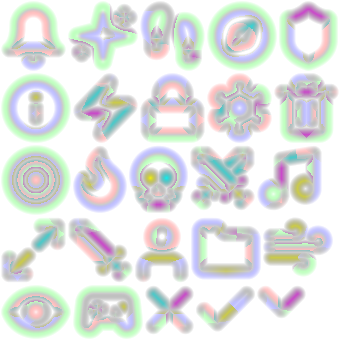
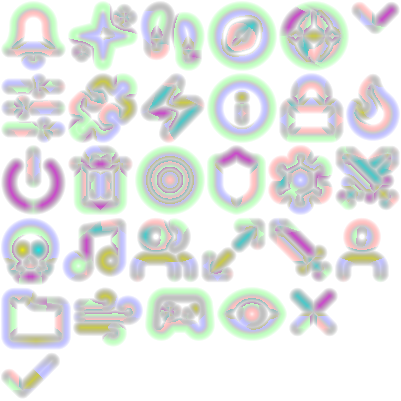
Выровнял иконки по высоте относительно текста и обновил иконки в Главном Меню

diff --git a/src/client/java/fun/newrar/screen/MainMenuScreen.java b/src/client/java/fun/newrar/screen/MainMenuScreen.java
@@ -360,10 +360,10 @@ public class MainMenuScreen extends Screen implements IMinecraft {
 
             if (danger) {
                 Fonts.sf_regular.drawCentered(text(), x + width / 2F + 5F, y + height / 2F - 3.5F, 6.5F, textColor);
-                Fonts.icon.drawCentered(icon, x + width / 2F - Fonts.sf_regular.getWidth(text(), 6.5F) / 2F - 6F, y + height / 2F - 0.5F, 6F, iconColor);
+                Fonts.rainydlc_2.drawCentered(icon, x + width / 2F - Fonts.sf_regular.getWidth(text(), 6.5F) / 2F - 6F, y + height / 2F - 3.2F, 6.5F, iconColor);
             } else {
                 Fonts.sf_regular.draw(text(), x + 11F, y + height / 2F - 3.5F, 6.5F, textColor);
-                Fonts.icon.drawCentered(icon, x + width - 13F, y + height / 2F - 0.5F, 6F, iconColor);
+                Fonts.rainydlc_2.drawCentered(icon, x + width - 13F, y + height / 2F - 3.2F, 6.5F, iconColor);
             }
         }
 

diff --git a/src/client/java/fun/newrar/screen/Menu.java b/src/client/java/fun/newrar/screen/Menu.java
@@ -690,7 +690,7 @@ public class Menu extends Screen implements IMinecraft {
             if (act > 0.01F)
                 RenderUtil.Render2D.outline(tabX, tabY, tw, 22 * S, 0.5F * S, ColorUtil.replAlpha(ColorUtil.client(), globalAnim * act * 0.8F), 5 * S);
 
-            Fonts.rainydlc_2.drawCentered(category.getIcon(), tabX + 12 * S, tabY + 6 * S, 8 * S,
+            Fonts.rainydlc_2.drawCentered(category.getIcon(), tabX + 12 * S, tabY + 5.5F * S, 7.5F * S,
                     ColorUtil.multAlpha(ColorUtil.overCol(ColorUtil.getColor(255, 0.35F * globalAnim + 0.45F * hv), ColorUtil.client(), Math.max(act, hv * 0.6F)), globalAnim));
             if (act > 0.01F)
                 draw.draw(category.getName(), tabX + 21 * S, tabY + 7.5F * S, 7 * S, ColorUtil.getColor(220, globalAnim * act));

diff --git a/src/client/java/fun/newrar/screen/DropdownScreen.java b/src/client/java/fun/newrar/screen/DropdownScreen.java
@@ -429,7 +429,7 @@ public class DropdownScreen extends Screen implements IMinecraft {
 
             String catDisplayName = getCategoryDisplayName(col.category);
             bold.draw(catDisplayName, cx + 11F * S, cy + 8F * S, 7.5F * S, ColorUtil.getColor(255, 255, 255, 0.95F * globalAnim));
-            iconFont.drawCentered(col.category.getIcon(), cx + cw - 14F * S, cy + 12F * S, 7.5F * S, ColorUtil.getColor(210, 215, 225, 0.75F * globalAnim));
+            iconFont.drawCentered(col.category.getIcon(), cx + cw - 14F * S, cy + 8.5F * S, 7.5F * S, ColorUtil.getColor(210, 215, 225, 0.75F * globalAnim));
 
             float bodyY = cy + headerH;
             float bodyH = ch - headerH - 8F * S;

diff --git a/src/client/java/fun/newrar/module/impl/display/interfaceimpl/KeyBinds.java b/src/client/java/fun/newrar/module/impl/display/interfaceimpl/KeyBinds.java
@@ -34,7 +34,7 @@ public class KeyBinds implements element {
     private float rowText = 6.5F;
 
     private float titleIconX = 5F;
-    private float titleIconY = 5.5F;
+    private float titleIconY = 4.0F;
     private float titleTextX = 12.5F;
     private float titleTextY = 3.4F;
 
@@ -43,7 +43,7 @@ public class KeyBinds implements element {
     private float rowPaddingX = 5F;
     private float rowStartY = 5F;
     private float iconPadding = 4F;
-    private float iconOffsetY = 0.9F;
+    private float iconOffsetY = 0.0F;
     private float sepPaddingX = 4F;
     private float sepOffsetY = 3.2F;
 

diff --git a/src/client/java/fun/newrar/module/impl/display/interfaceimpl/Information.java b/src/client/java/fun/newrar/module/impl/display/interfaceimpl/Information.java
@@ -20,7 +20,7 @@ public class Information implements element {
     private float h = 16F;
     private float radius = 5F;
     private float iconX = 6F;
-    private float iconY = 5.7F;
+    private float iconY = 4.4F;
     private float textX = 14F;
     private float textY = 4.4F;
     private float block = 15F;
@@ -47,7 +47,7 @@ public class Information implements element {
         h = 16F * s;
         radius = 5F * s;
         iconX = 6F * s;
-        iconY = 5.7F * s;
+        iconY = 4.4F * s;
         textX = 14F * s;
         textY = 4.4F * s;
         block = 15F * s;

diff --git a/src/client/java/fun/newrar/module/impl/display/interfaceimpl/WaterMark.java b/src/client/java/fun/newrar/module/impl/display/interfaceimpl/WaterMark.java
@@ -50,7 +50,7 @@ public class WaterMark implements element {
         h = 16F * s;
         radius = 5F * s;
         iconX = 6F * s;
-        iconY = 5.5F * s;
+        iconY = 4.4F * s;
         textX = 14F * s;
         textY = 4.4F * s;
         block = 15F * s;
